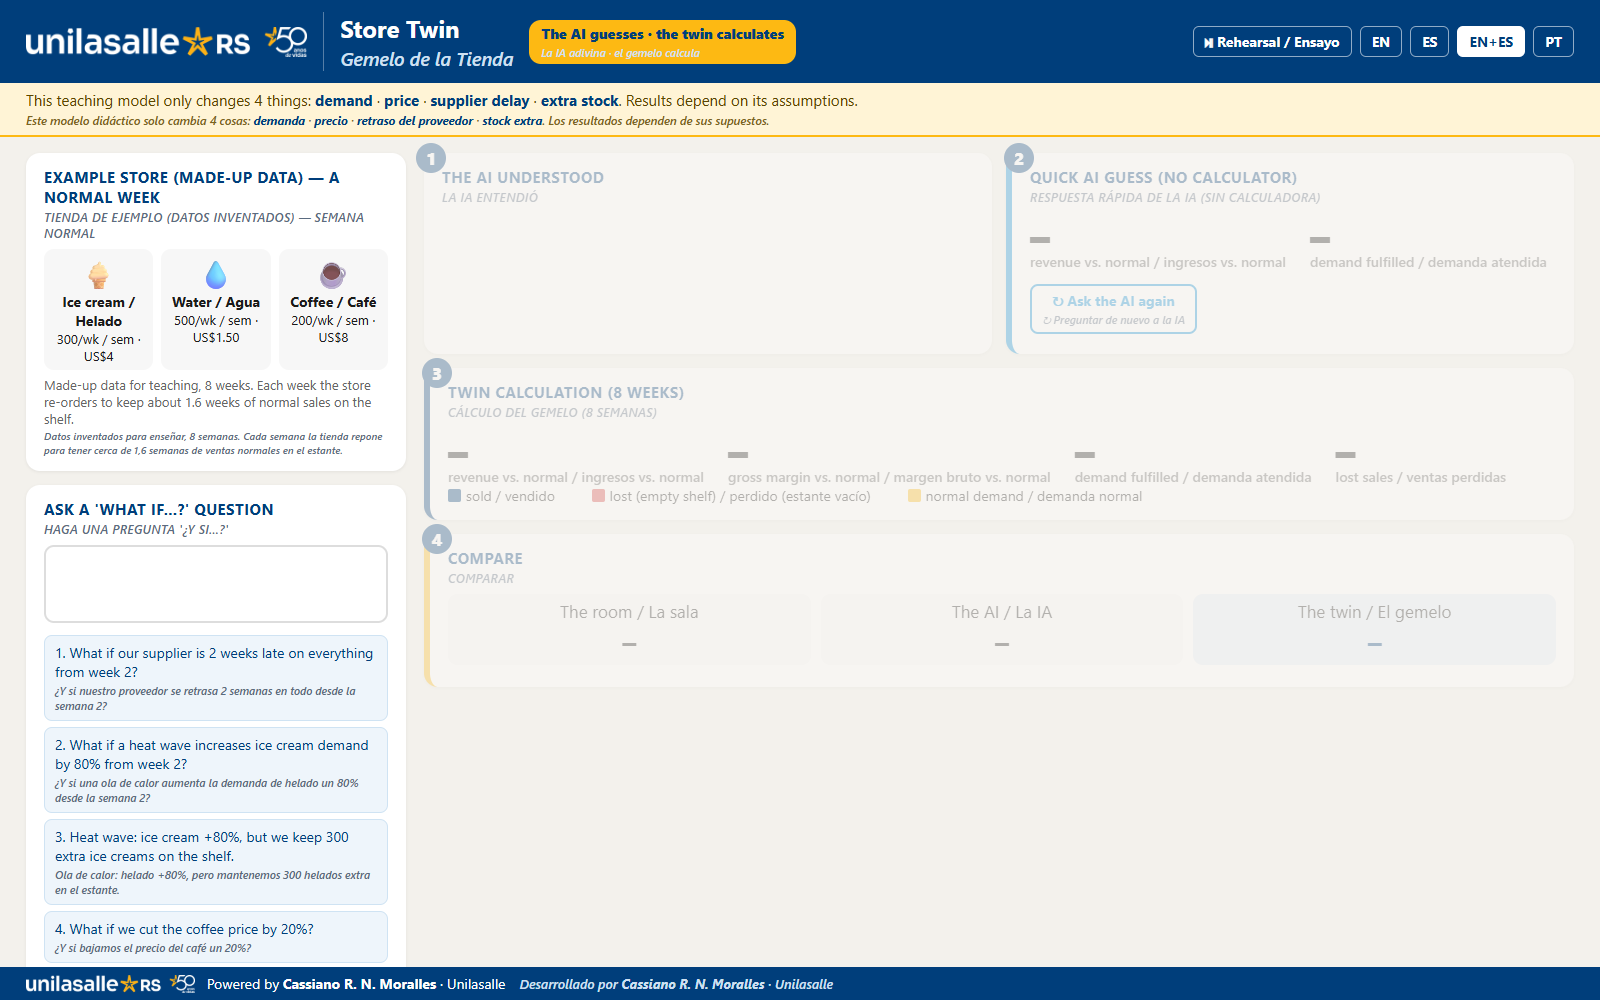
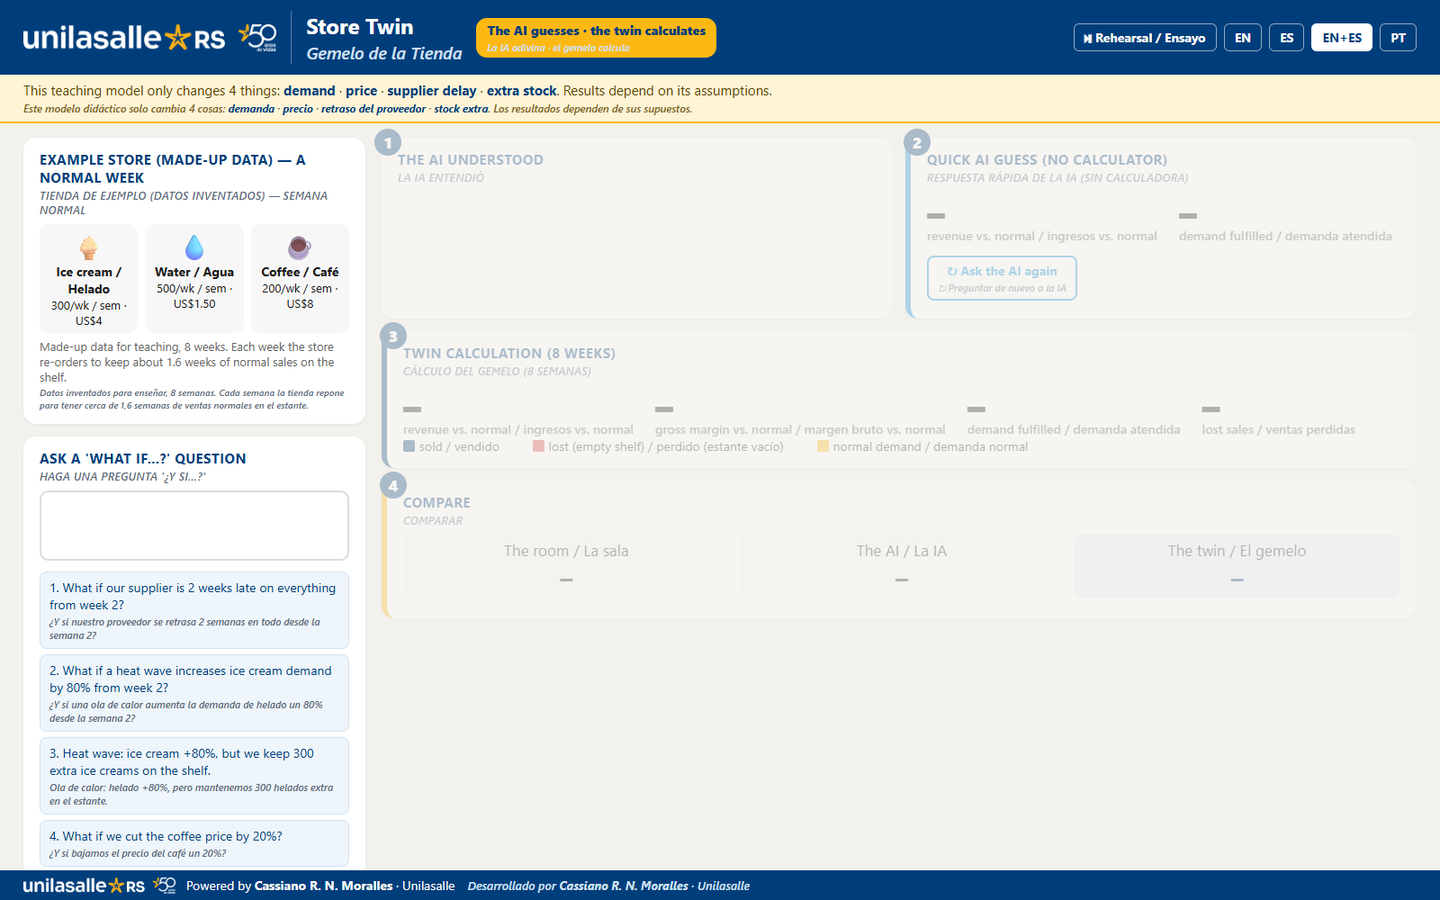
docs: diagrams as sized images that fit the README page / diagramas como imágenes ajustadas al ancho del README
ES:
- Los 7 diagramas pasan de bloques Mermaid (GitHub los dibujaba a ancho completo y con letra pequeña) a PNG nítidos en docs/diagrams/, con ancho fijo de hasta 820 px
- Fuente editable de cada diagrama en docs/diagrams/*.mmd
- Diagramas rehechos para ser más compactos: contenedores, componentes, vista dinámica, ciclo semanal y gemelo real
- Captura de la demo a 720 px de ancho

EN:
- The 7 diagrams change from Mermaid blocks (GitHub drew them full width with small text) to sharp PNGs in docs/diagrams/, with a fixed width of up to 820 px
- Editable source of each diagram in docs/diagrams/*.mmd
- Diagrams redrawn to be more compact: containers, components, dynamic view, weekly loop and real twin
- Demo screenshot at 720 px wide

diff --git a/README.md b/README.md
@@ -5,7 +5,7 @@
 <sub>International Business Week · Unilasalle-RS · 11/11/2026 · MIT</sub>
 </p>
 
-![Pantalla de la demo (modo EN+ES) / Demo screen (EN+ES mode)](docs/screenshot_en-es.png)
+<p align="center"><img src="docs/screenshot_en-es.png" alt="Pantalla de la demo (modo EN+ES) / Demo screen (EN+ES mode)" width="720"></p>
 
 **Contenido · Contents:** [Arquitectura C4 · C4 architecture](#c4) · [Cómo se simula el gemelo · How the twin is simulated](#simulacion) · [Un gemelo real · A real twin](#gemelo-real) · [Fuentes · Sources](#fuentes) · [Inicio rápido · Quick start](#quick-start)
 
@@ -148,107 +148,19 @@ The [C4 model](https://c4model.com) describes software at zoom levels: **context
 
 ### Nivel 1: Contexto · Level 1: Context
 
-```mermaid
-flowchart LR
-  P["👤 Presentador y público<br/>Presenter and audience<br/>[Persona · Person]"]
-  D["🖥 Demo Gemelo vs. IA<br/>Twin vs. AI demo<br/>[Sistema · Software system]<br/>Simula una tienda y la compara con la IA<br/>Simulates a store and compares it with the AI"]
-  O["☁ Ollama Cloud<br/>[Sistema externo · External system]<br/>Modelos de lenguaje · Language models<br/>gpt-oss:120b · glm-5.3-flash"]
-  P -->|"Pregunta ¿y si…? / Asks what if…?<br/>[navegador · browser]"| D
-  D -->|"Interpretar, adivinar, explicar<br/>Parse, guess, explain<br/>[HTTPS + JSON]"| O
-  classDef person fill:#08427B,color:#fff,stroke:#052E56
-  classDef system fill:#1168BD,color:#fff,stroke:#0B4884
-  classDef ext fill:#8A8A8A,color:#fff,stroke:#6B6B6B
-  class P person
-  class D system
-  class O ext
-```
+<p align="center"><img src="docs/diagrams/c4-1-contexto-context.png" alt="C4 nivel 1: contexto / level 1: context" width="820"></p>
 
 ### Nivel 2: Contenedores · Level 2: Containers
 
-```mermaid
-flowchart LR
-  P["👤 Presentador · Presenter"]
-  subgraph SYS["Demo Gemelo vs. IA · Twin vs. AI demo"]
-    UI["Interfaz web · Web UI<br/>[index.html · HTML + JavaScript]<br/>ES · EN · EN+ES · PT"]
-    API["Servidor local · Local server<br/>[server.py · Python 3.9+, solo stdlib]<br/>127.0.0.1:8765"]
-    REH[("Ensayo grabado<br/>Recorded rehearsal<br/>[ensaio_v2.json]")]
-    ENV[(".env<br/>clave de IA · AI key<br/>(no se sube · not committed)")]
-  end
-  O["☁ Ollama Cloud<br/>[API HTTPS]"]
-  P -->|"usa · uses"| UI
-  UI -->|"POST /api/ask · /api/guess<br/>/api/replay · /api/twin<br/>GET /api/health"| API
-  API -->|"lee · reads"| REH
-  API -->|"lee · reads"| ENV
-  API -->|"POST /api/chat<br/>espera máx. 20 s · max wait 20 s"| O
-  classDef person fill:#08427B,color:#fff,stroke:#052E56
-  classDef cont fill:#438DD5,color:#fff,stroke:#2E6295
-  classDef ext fill:#8A8A8A,color:#fff,stroke:#6B6B6B
-  class P person
-  class UI,API,REH,ENV cont
-  class O ext
-```
+<p align="center"><img src="docs/diagrams/c4-2-contenedores-containers.png" alt="C4 nivel 2: contenedores / level 2: containers" width="820"></p>
 
 ### Nivel 3: Componentes de `server.py` · Level 3: Components of `server.py`
 
-```mermaid
-flowchart TB
-  UI["Interfaz web · Web UI"]
-  subgraph SRV["server.py"]
-    H["Manejador HTTP · HTTP handler<br/>class H"]
-    ASK["Orquestador · Orchestrator<br/>handle_ask · handle_guess"]
-    LLM["Cliente de IA · AI client<br/>llm() + prompts PARSE / GUESS / EXPLAIN"]
-    TWIN["Gemelo · Twin<br/>run_twin · simulate_product · kpis"]
-    NORM["Límites del modelo · Model limits<br/>normalize · LIMITS"]
-    RP["Plan B · Rehearsal<br/>replay · closest_scenario"]
-    HL["Salud y configuración · Health and config<br/>ai_online · api_key · load_dotenv"]
-  end
-  O["☁ Ollama Cloud"]
-  REH[("ensaio_v2.json")]
-  UI --> H
-  H -->|"/api/ask · /api/guess"| ASK
-  H -->|"/api/replay"| RP
-  H -->|"/api/twin"| TWIN
-  H -->|"/api/health"| HL
-  ASK --> LLM
-  ASK --> TWIN
-  TWIN --> NORM
-  RP --> REH
-  RP --> TWIN
-  LLM --> O
-  classDef comp fill:#85BBF0,color:#000,stroke:#5D82A8
-  classDef ext fill:#8A8A8A,color:#fff,stroke:#6B6B6B
-  class H,ASK,LLM,TWIN,NORM,RP,HL comp
-  class O ext
-```
+<p align="center"><img src="docs/diagrams/c4-3-componentes-components.png" alt="C4 nivel 3: componentes de server.py / level 3: server.py components" width="620"></p>
 
 ### Vista dinámica: una pregunta · Dynamic view: one question
 
-```mermaid
-sequenceDiagram
-  autonumber
-  actor U as Presentador · Presenter
-  participant B as Navegador · Browser
-  participant S as server.py
-  participant AI as Ollama Cloud
-  participant T as Gemelo · Twin
-  U->>B: ¿Y si…? · What if…?
-  B->>S: POST /api/ask (pregunta, idioma · question, language)
-  S->>AI: PARSE: pregunta → parámetros · question → parameters
-  AI-->>S: product all, supplier_delay_weeks 2
-  S->>AI: GUESS: adivina sin calculadora · guess without a calculator
-  AI-->>S: ingresos −25 % · revenue −25 %
-  S->>T: run_twin(parámetros · parameters)
-  T-->>S: ingresos −35 %, demanda atendida 65 %
-  S->>AI: EXPLAIN: solo con los números del gemelo · only the twin's numbers
-  AI-->>S: 3 frases · 3 sentences
-  S-->>B: IA + gemelo + explicación · AI + twin + explanation
-  B-->>U: Paneles 1 a 4 · Panels 1 to 4
-  opt Sin internet · No internet
-    B->>S: POST /api/replay (pregunta · question)
-    S->>T: run_twin (en vivo · live)
-    S-->>B: respuestas grabadas de la IA + gemelo en vivo · recorded AI answers + live twin
-  end
-```
+<p align="center"><img src="docs/diagrams/c4-dinamica-dynamic.png" alt="Vista dinámica: una pregunta / dynamic view: one question" width="820"></p>
 
 <a id="simulacion"></a>
 
@@ -307,16 +219,7 @@ Changes start in **week 2** (default) and last until week 8. Limits: demand −9
 
 ### El ciclo semanal · The weekly loop
 
-```mermaid
-flowchart LR
-  A["Semana t<br/>Week t"] --> B["Demanda · Demand<br/>normal × cambios<br/>normal × changes"]
-  B --> C["Llega el pedido<br/>Order arrives"]
-  C --> D["Vender lo que hay<br/>Sell what is on the shelf<br/>falta = venta perdida<br/>shortfall = lost sale"]
-  D --> E["Pedir hasta 1,6 semanas<br/>Order up to 1.6 weeks<br/>llega en t + 1 + retraso<br/>arrives at t + 1 + delay"]
-  E --> G{"¿t < 8?"}
-  G -->|"sí · yes"| A
-  G -->|"no"| H["Indicadores de 8 semanas<br/>8-week KPIs"]
-```
+<p align="center"><img src="docs/diagrams/gemelo-ciclo-semanal-twin-weekly-loop.png" alt="Ciclo semanal del gemelo / twin weekly loop" width="820"></p>
 
 ### Ejemplo real del código · Real example from the code
 
@@ -376,58 +279,11 @@ In the talk we call it a "twin" to keep it simple; the idea of rehearsing decisi
 </tr>
 </table>
 
-```mermaid
-flowchart LR
-  M["Modelo digital · Digital model<br/>datos a mano · data by hand<br/>⬅ esta demo · this demo"]
-  S["Sombra digital · Digital shadow<br/>real → modelo, automático<br/>real → model, automatic"]
-  T["Gemelo digital · Digital twin<br/>ida y vuelta automática<br/>automatic, both ways"]
-  M -->|"+ datos en vivo · + live data"| S
-  S -->|"+ acción de vuelta · + action back"| T
-  classDef here fill:#FDB913,color:#003E7B,stroke:#003E7B
-  classDef lvl fill:#438DD5,color:#fff,stroke:#2E6295
-  class M here
-  class S,T lvl
-```
+<p align="center"><img src="docs/diagrams/niveles-modelo-sombra-gemelo-levels.png" alt="Modelo, sombra y gemelo digital / digital model, shadow and twin" width="820"></p>
 
 ### Arquitectura de un gemelo real de tienda · Architecture of a real store twin
 
-```mermaid
-flowchart LR
-  subgraph FIS["🏬 Tienda real · Real store"]
-    POS["Cajas · POS"]
-    ERP["ERP: stock y pedidos<br/>stock and orders"]
-    SUP["Proveedores · Suppliers"]
-    IOT["Sensores · Sensors"]
-    EXT["Clima, promociones<br/>Weather, promotions"]
-  end
-  subgraph DAT["Datos · Data"]
-    ING["Ingesta continua<br/>Continuous ingestion"] --> HIST[("Históricos limpios<br/>Clean history")]
-  end
-  subgraph DT["Gemelo digital · Digital twin"]
-    STATE["Estado actual<br/>Current state"] --> SIM["Simulación de<br/>eventos discretos<br/>Discrete-event<br/>simulation"]
-    FC["Pronóstico (ML)<br/>Forecast (ML)"] --> SIM
-    SIM --> MC["Miles de escenarios<br/>con incertidumbre<br/>Thousands of scenarios<br/>with uncertainty"]
-  end
-  GENAI["🤖 IA generativa<br/>Generative AI<br/>pregunta y explica<br/>asks and explains"]
-  MGR["👤 Gerentes<br/>Managers"]
-  POS & ERP & SUP & IOT & EXT --> ING
-  HIST --> STATE
-  HIST --> FC
-  MC <-->|"números del gemelo<br/>twin's numbers"| GENAI
-  GENAI <-->|"¿y si…?<br/>what if…?"| MGR
-  MGR ==> ACT["🏬 Acción en la tienda real<br/>Action in the real store<br/>pedido, precio, layout<br/>order, price, layout"]
-  ACT -.->|"vuelve como datos nuevos<br/>comes back as new data"| ING
-  HIST -.->|"previsto vs. real: recalibrar<br/>forecast vs. actual: recalibrate"| FC
-  classDef store fill:#FFF4D6,stroke:#FDB913,color:#003E7B
-  classDef data fill:#E8F1FB,stroke:#438DD5,color:#003E7B
-  classDef twin fill:#438DD5,stroke:#2E6295,color:#fff
-  classDef use fill:#003E7B,stroke:#002A55,color:#fff
-  class POS,ERP,SUP,IOT,EXT store
-  class ING,HIST data
-  class STATE,FC,SIM,MC twin
-  class MGR,GENAI use
-  class ACT store
-```
+<p align="center"><img src="docs/diagrams/gemelo-real-tienda-real-store-twin.png" alt="Arquitectura de un gemelo real de tienda / real store twin architecture" width="820"></p>
 
 ### Demo vs. gemelo real · Demo vs. real twin
 
